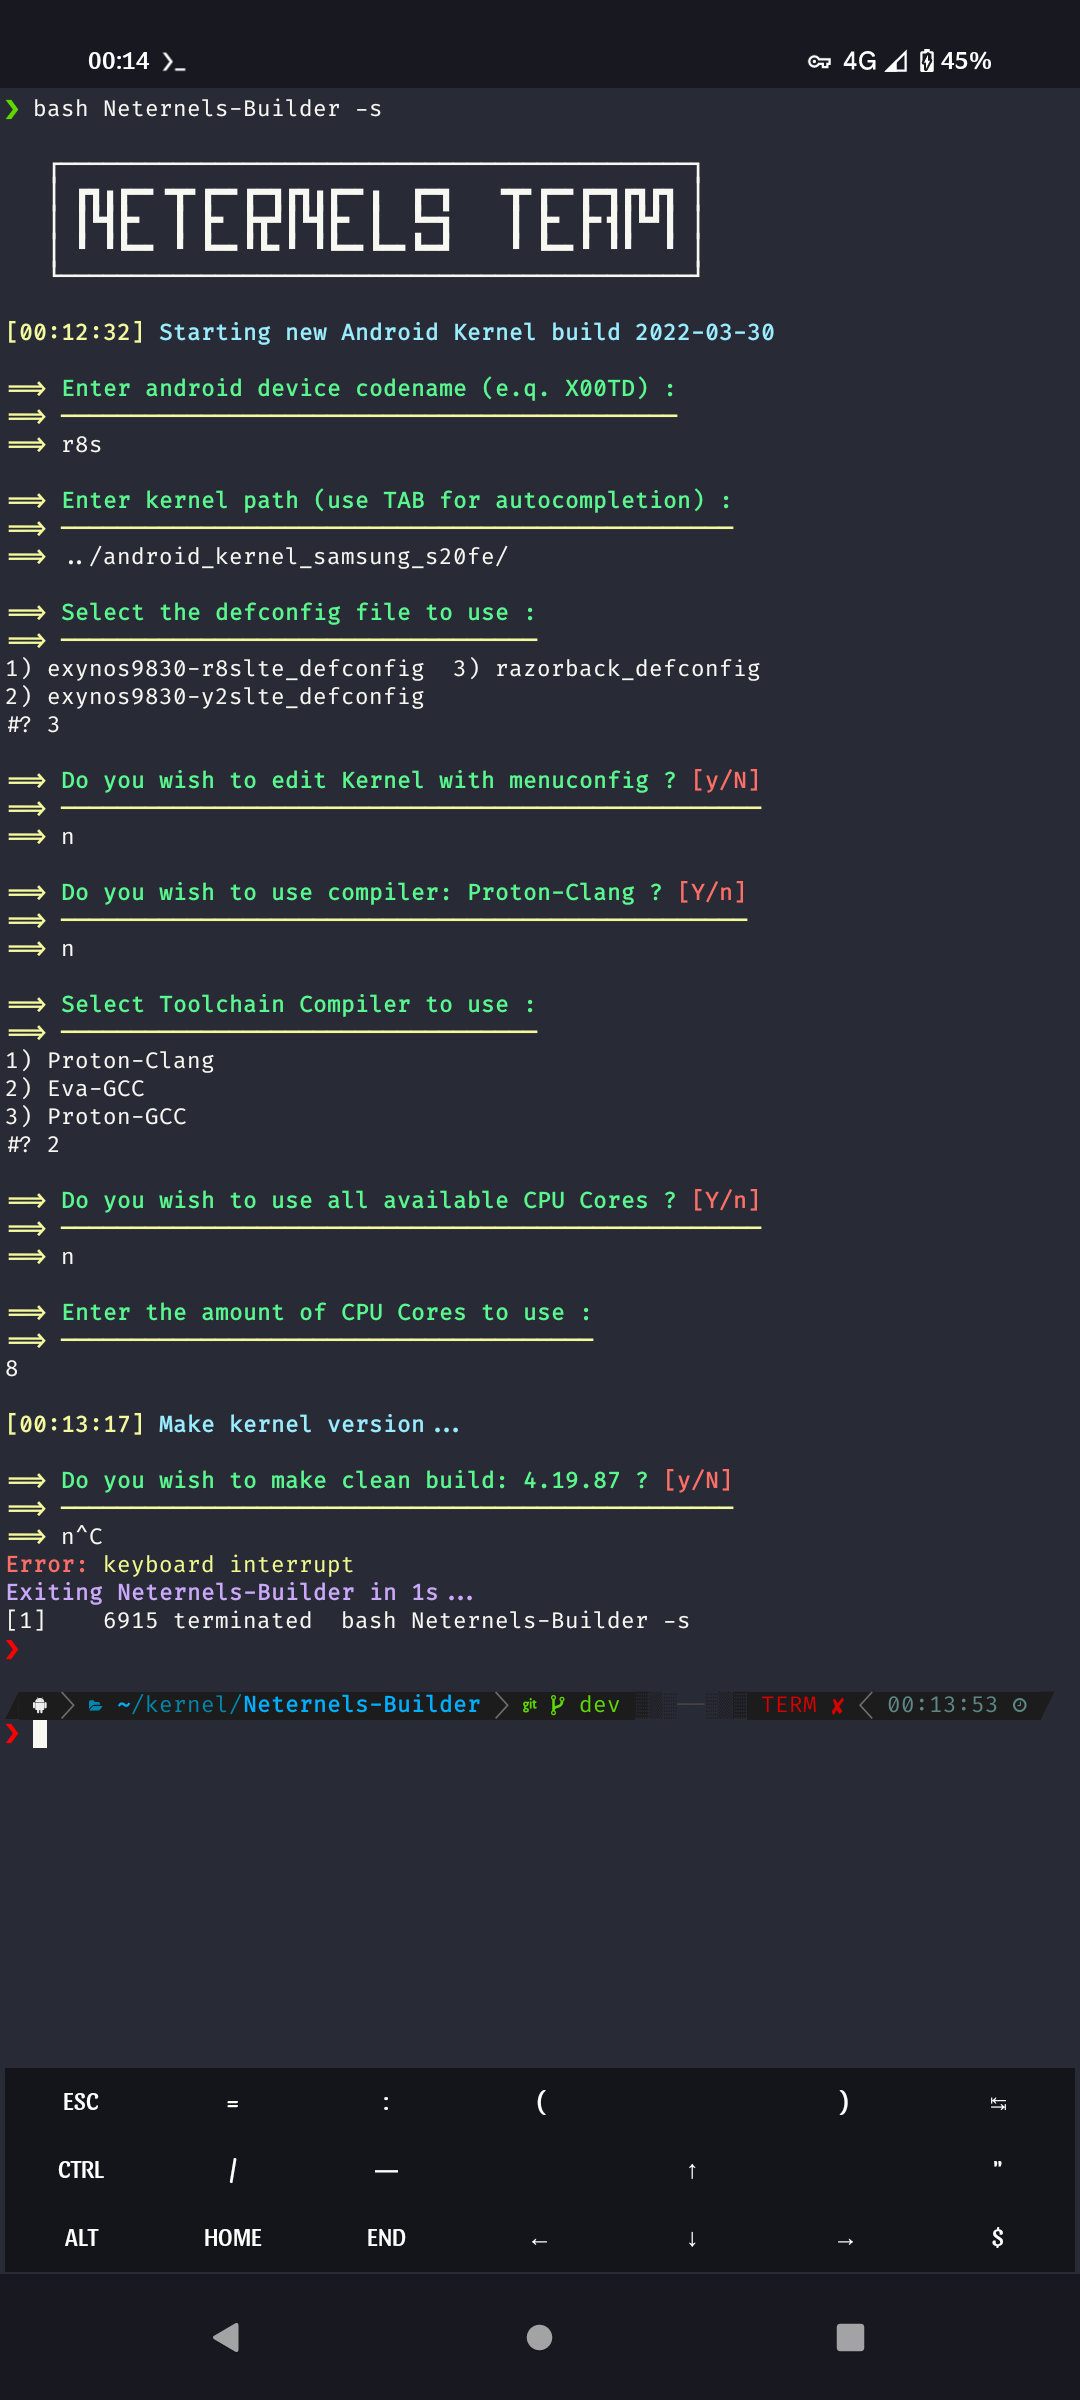
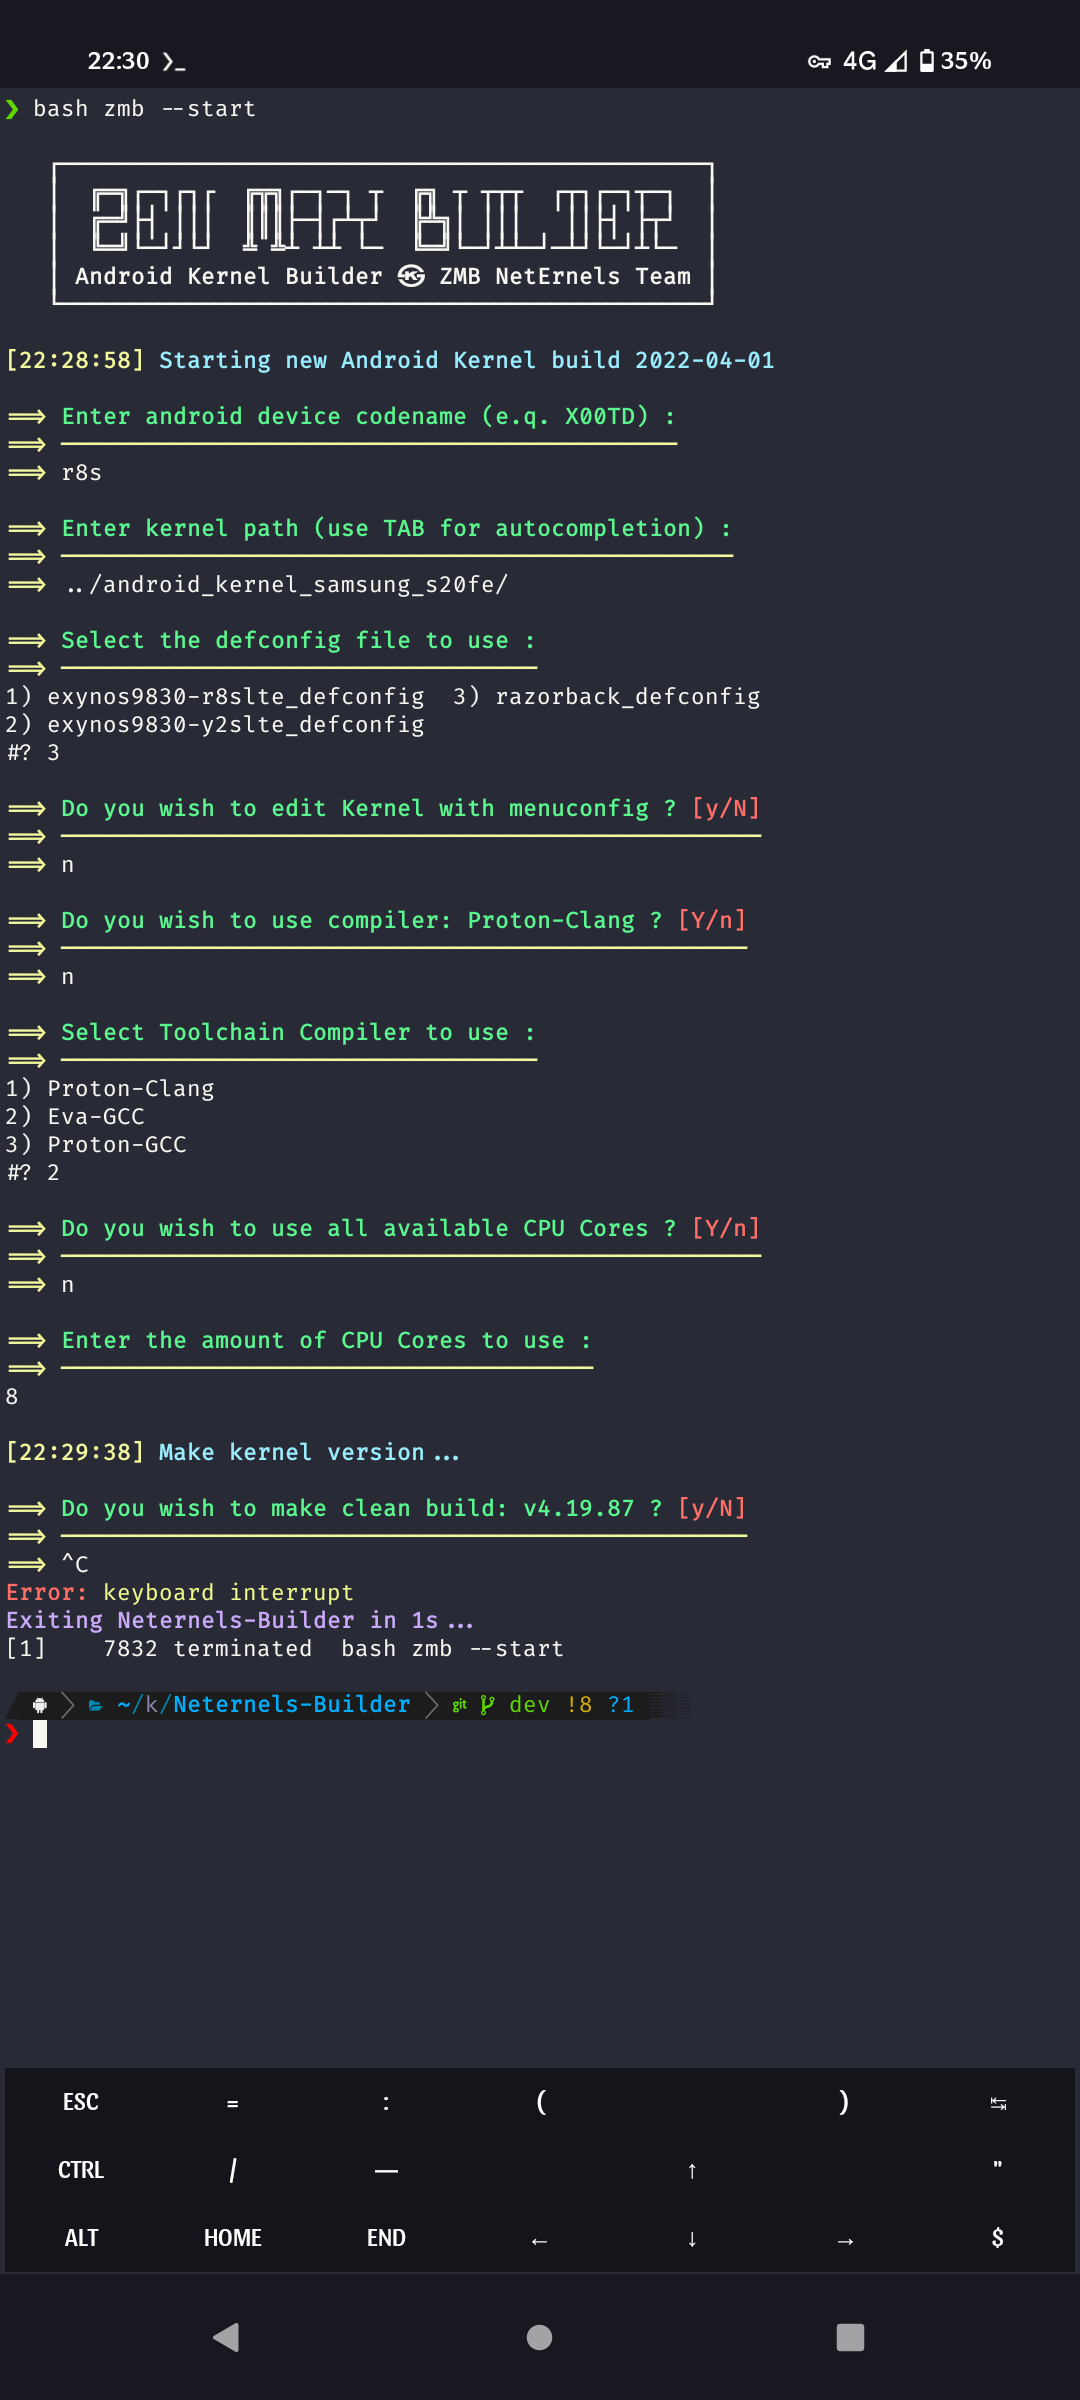
Main: Rebrand to ZenMaxBuilder (#94)

Changed region(s): [[0.0, 0.0, 0.7028, 0.7188], [0.6722, 0.6875, 0.9778, 0.7188]]

diff --git a/README.md b/README.md
@@ -6,15 +6,14 @@
 
 ![codequality](https://api.codiga.io/project/23638/score/svg)
 ![codescore](https://api.codiga.io/project/23638/status/svg)
-![codefactor](https://www.codefactor.io/repository/github/grm34/neternels-builder/badge)
+![codefactor](https://www.codefactor.io/repository/github/grm34/zenmaxbuilder/badge)
 
-Neternels-Builder is an Android Kernel Builder written in bash, which can be
-runned on any Linux System (feel free to Pull Request for Windows support). By
-default it uses Proton-Clang, Eva-GCC or Proton-GCC but you can use any
-toolchains you like by editing
-[config.sh](https://github.com/grm34/Neternels-Builder/blob/main/config.sh)
-file. The perfect tool to compile on the fly and keep fresh and clean kernel
-paths.
+ZenMaxBuilder is an Android Kernel Builder written in bash, which can be runned
+on any Linux System (feel free to Pull Request for Windows support). By default
+it uses Proton-Clang, Eva-GCC or Proton-GCC but you can use any toolchains you
+like by editing
+[config.sh](https://github.com/grm34/ZenMaxBuilder/blob/main/config.sh) file.
+The perfect tool to compile on the fly and keep fresh and clean kernel paths.
 
 ## Requirements
 
@@ -24,16 +23,15 @@ Dependencies will be prompted to install or you can manually install them.
 
 ## Usage
 
-1. `git clone https://github.com/grm34/Neternels-Builder.git`
-2. `cd Neternels-Builder`
-3. Edit
-   [config.sh](https://github.com/grm34/Neternels-Builder/blob/main/config.sh)
+1. `git clone https://github.com/grm34/ZenMaxBuilder.git`
+2. `cd ZenMaxBuilder`
+3. Edit [config.sh](https://github.com/grm34/ZenMaxBuilder/blob/main/config.sh)
    to set your settings (optional)
-4. `bash Neternels-Builder --start`
+4. `bash zmb --start`
 
 ## Options
 
-    Usage: bash Neternels-Builder [OPTION] [ARGUMENT]
+    Usage: bash zmb [OPTION] [ARGUMENT] (e.q. bash zmb --start)
 
     Options
         -h, --help                     show this message and exit
@@ -47,7 +45,7 @@ Dependencies will be prompted to install or you can manually install them.
 
 ## Working structure
 
-    Neternels-Builder/
+    ZenMaxBuilder/
     |
     |---- builds/               # Flashable kernel zips
     |     |---- DEVICE1/
@@ -63,7 +61,7 @@ Dependencies will be prompted to install or you can manually install them.
 
 ## Screenshot
 
-![screenshot](https://raw.githubusercontent.com/grm34/Neternels-Builder/main/docs/assets/images/screenshot.png)
+![screenshot](https://raw.githubusercontent.com/grm34/ZenMaxBuilder/main/docs/assets/images/screenshot.png)
 
 ## Credits
 
@@ -75,7 +73,7 @@ Dependencies will be prompted to install or you can manually install them.
 ## Links
 
 - Codiga Code Review:
-  [link](https://app.codiga.io/public/project/23638/Neternels-Builder/dashboard)
+  [link](https://app.codiga.io/public/project/23638/ZenMaxBuilder/dashboard)
 - Codefactor Code Review:
-  [link](https://www.codefactor.io/repository/github/grm34/neternels-builder)
+  [link](https://www.codefactor.io/repository/github/grm34/zenmaxbuilder)
 - Website: [https://kernel-builder.com](https://kernel-builder.com)

diff --git a/docs/index.md b/docs/index.md
@@ -10,7 +10,7 @@
 
 ![codequality](https://api.codiga.io/project/23638/score/svg)
 ![codescore](https://api.codiga.io/project/23638/status/svg)
-![codefactor](https://www.codefactor.io/repository/github/grm34/neternels-builder/badge)
+![codefactor](https://www.codefactor.io/repository/github/grm34/zenmaxbuilder/badge)
 
 ## Requirements
 
@@ -20,16 +20,15 @@ Dependencies will be prompted to install or you can manually install them.
 
 ## Usage
 
-1. `git clone https://github.com/grm34/Neternels-Builder.git`
-2. `cd Neternels-Builder`
-3. Edit
-   [config.sh](https://github.com/grm34/Neternels-Builder/blob/main/config.sh)
+1. `git clone https://github.com/grm34/ZenMaxBuilder.git`
+2. `cd ZenMaxBuilder`
+3. Edit [config.sh](https://github.com/grm34/ZenMaxBuilder/blob/main/config.sh)
    to set your settings (optional)
-4. `bash Neternels-Builder --start`
+4. `bash ZenMaxBuilder --start`
 
 ## Options
 
-    Usage: bash Neternels-Builder [OPTION] [ARGUMENT]
+    Usage: bash zmb [OPTION] [ARGUMENT] (e.q. bash zmb --start)
 
     Options
         -h, --help                     show this message and exit
@@ -43,7 +42,7 @@ Dependencies will be prompted to install or you can manually install them.
 
 ## Working structure
 
-    Neternels-Builder/
+    ZenMaxBuilder/
     |
     |---- builds/               # Flashable kernel zips
     |     |---- DEVICE1/
@@ -59,7 +58,7 @@ Dependencies will be prompted to install or you can manually install them.
 
 ## Screenshot
 
-![screenshot](https://raw.githubusercontent.com/grm34/Neternels-Builder/main/docs/assets/images/screenshot.png)
+![screenshot](https://raw.githubusercontent.com/grm34/ZenMaxBuilder/main/docs/assets/images/screenshot.png)
 
 ## Credits
 
@@ -70,8 +69,8 @@ Dependencies will be prompted to install or you can manually install them.
 
 ## Links
 
-- Source Code: [github](https://github.com/grm34/Neternels-Builder)
+- Source Code: [github](https://github.com/grm34/ZenMaxBuilder)
 - Codiga Code Review:
-  [link](https://app.codiga.io/public/project/23638/Neternels-Builder/dashboard)
+  [link](https://app.codiga.io/public/project/23638/ZenMaxBuilder/dashboard)
 - Codefactor Code Review:
-  [link](https://www.codefactor.io/repository/github/grm34/neternels-builder)
+  [link](https://www.codefactor.io/repository/github/grm34/zenmaxbuilder)
